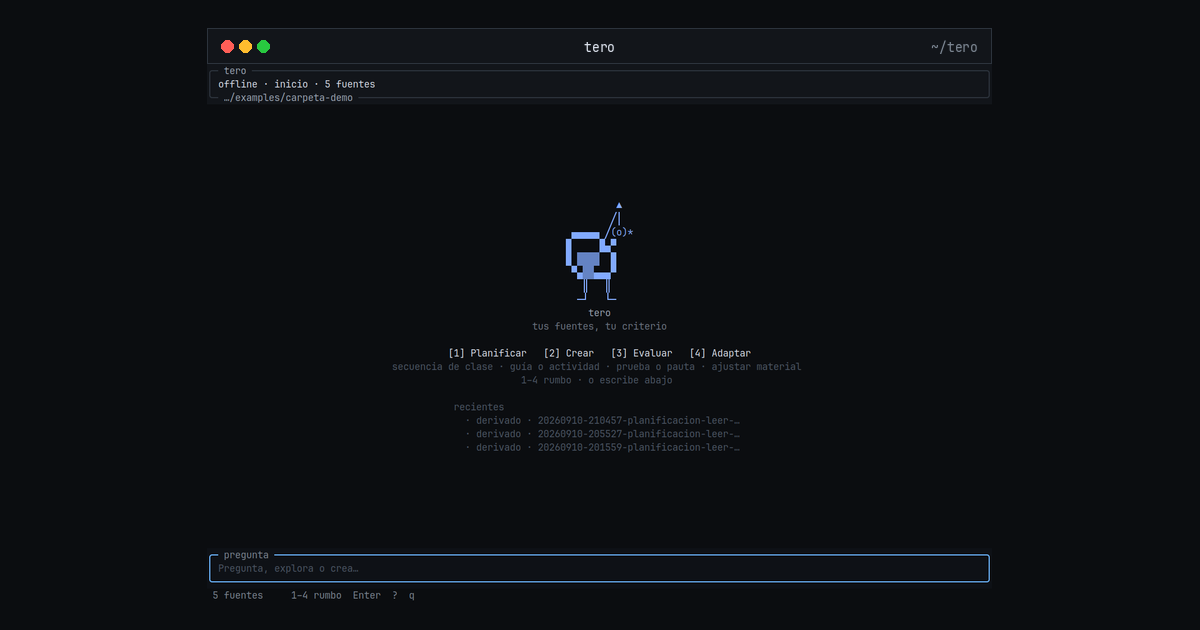
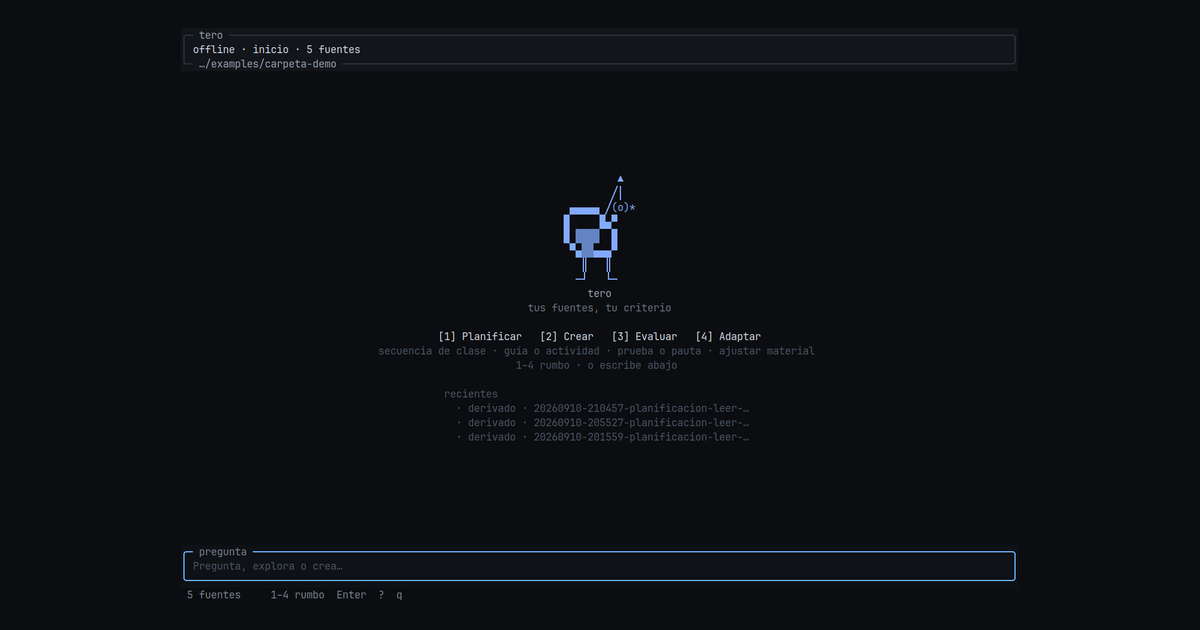
fix(site): show the OpenTUI shot as the landing window
The captured 140×40 shell already has ╭─ tero ─╮. Hide the extra
traffic titlebar on the ficha so the web view is the TUI, not a
second OS chrome around it.

Changed region(s): [[0.3083, 0.3016, 0.6783, 0.7238], [0.1542, 0.8746, 0.8325, 0.9651], [0.1542, 0.0302, 0.8325, 0.181]]

diff --git a/site/index.html b/site/index.html
@@ -26,7 +26,7 @@
       href="https://fonts.googleapis.com/css2?family=JetBrains+Mono:ital,wght@0,400;0,500;0,600;1,400&display=swap"
       rel="stylesheet"
     />
-    <link rel="stylesheet" href="./styles.css?v=vte-nord" />
+    <link rel="stylesheet" href="./styles.css?v=vte-tui" />
   </head>
   <body
     data-warnings-block-s="false"
@@ -36,8 +36,7 @@
     <a class="skip" href="#prompt">Saltar al prompt</a>
 
     <div class="window" id="app">
-      <header class="window-chrome">
-        <span class="traffic" aria-hidden="true"><i></i><i></i><i></i></span>
+      <header class="window-chrome sr-only">
         <span class="window-title">tero</span>
         <span class="window-path" id="window-path">~/tero</span>
       </header>

diff --git a/site/styles.css b/site/styles.css
@@ -111,7 +111,7 @@ body {
   max-width: calc(100vw - 2.2rem);
   margin: 0;
   background: var(--tui-bg);
-  border: 1px solid var(--border);
+  border: 0;
   border-radius: 0;
   overflow: hidden;
   min-height: 0;

diff --git a/tui/scripts/compose-og.py b/tui/scripts/compose-og.py
@@ -1,63 +1,35 @@
 #!/usr/bin/env python3
 """Compose site/assets/tero-og.png from the captured OpenTUI home.
 
-The OG card is the landing window (traffic + tero + ~/tero) hugging the
-live 140×40 JetBrains shot — not the old splash wave.
+The card is the live 140×40 JetBrains shot on Nord — not a splash wave
+and not a second macOS titlebar around the TUI.
 """
 
 from __future__ import annotations
 
 from pathlib import Path
 
-from PIL import Image, ImageDraw, ImageFont
+from PIL import Image
 
 ROOT = Path(__file__).resolve().parents[1].parent
 HOME = ROOT / "site" / "assets" / "tui" / "frames" / "home.png"
 OUT = ROOT / "site" / "assets" / "tero-og.png"
-FONT = Path("/usr/share/fonts/truetype/jetbrains-mono/JetBrainsMono-Medium.ttf")
 
 OG_W, OG_H = 1200, 630
 BG = (11, 13, 16)
-PANEL = (18, 21, 26)
-BORDER = (44, 51, 60)
-TEXT = (216, 222, 233)
-MUTED = (122, 132, 144)
-TRAFFIC = ((255, 95, 87), (254, 188, 46), (40, 200, 64))
-CHROME_H = 36
 PAD = 28
 
 
 def main() -> None:
     shot = Image.open(HOME).convert("RGB")
     max_w = OG_W - PAD * 2
-    max_h = OG_H - PAD * 2 - CHROME_H
+    max_h = OG_H - PAD * 2
     scale = min(max_w / shot.width, max_h / shot.height, 1)
     inner_w = max(1, round(shot.width * scale))
     inner_h = max(1, round(shot.height * scale))
     inner = shot.resize((inner_w, inner_h), Image.Resampling.LANCZOS)
-
-    win_w = inner_w
-    win_h = CHROME_H + inner_h
-    window = Image.new("RGB", (win_w, win_h), (11, 13, 16))
-    draw = ImageDraw.Draw(window)
-    draw.rectangle((0, 0, win_w, CHROME_H), fill=PANEL)
-    draw.line((0, CHROME_H - 1, win_w, CHROME_H - 1), fill=BORDER)
-    draw.rectangle((0, 0, win_w - 1, win_h - 1), outline=BORDER)
-    x = 14
-    for color in TRAFFIC:
-        draw.ellipse((x, 12, x + 12, 24), fill=color)
-        x += 18
-    font = ImageFont.truetype(str(FONT), 13) if FONT.is_file() else ImageFont.load_default()
-    title = "tero"
-    tw = draw.textlength(title, font=font)
-    draw.text(((win_w - tw) / 2, 10), title, fill=TEXT, font=font)
-    path = "~/tero"
-    pw = draw.textlength(path, font=font)
-    draw.text((win_w - pw - 14, 10), path, fill=MUTED, font=font)
-    window.paste(inner, (0, CHROME_H))
-
     canvas = Image.new("RGB", (OG_W, OG_H), BG)
-    canvas.paste(window, ((OG_W - win_w) // 2, (OG_H - win_h) // 2))
+    canvas.paste(inner, ((OG_W - inner_w) // 2, (OG_H - inner_h) // 2))
     canvas.save(OUT, optimize=True)
     print(f"wrote {OUT} {canvas.size} from {HOME.name} @{scale:.3f}")
 

diff --git a/tests/test_site_ficha.py b/tests/test_site_ficha.py
@@ -48,6 +48,7 @@ def test_ficha_landing_is_the_github_page():
     assert 'id="tui-grid"' in html
     assert 'id="app"' in html
     assert "window-chrome" in html
+    assert "window-chrome sr-only" in html
     assert "term-chrome" not in html
     assert 'id="splash"' not in html
     assert 'id="wave"' not in html
@@ -90,7 +91,7 @@ def test_ficha_landing_is_the_github_page():
     assert "enterSession" not in js
     assert 'id="session"' not in html
     assert "tui-grid.js" in html
-    assert "styles.css?v=vte-nord" in html
+    assert "styles.css?v=vte-tui" in html
     assert "tui-grid.js?v=vte-hotkeys" in html
     assert "ficha.js?v=vte-hotkeys" in html
     assert "min-height: calc(100vh" not in css

diff --git a/docs/SITIO.md b/docs/SITIO.md
@@ -1,19 +1,17 @@
 # Sitio — la TUI real, en una ventana
 
-El chrome de [`site/`](../site/) es **la OpenTUI de tero**, virtualizada
-en el navegador. Una sola ventana (`traffic` + título `tero`) envuelve
-el mismo layout que `tui/src/shell.ts`: header `╭─ tero ─╮`, home con
-queltehue y rumbos, workspace `sesión` / `propuesta` / `evidencia`,
-puerta `s` / `n` / `b` / `c`, prompt y footer. Los colores salen de
-`tui/src/theme.ts` (`#0b0d10`, accent `#82aaff`).
+El chrome de [`site/`](../site/) **es la OpenTUI de tero**: el PNG
+capturado de `xfce4-terminal` 140×40 (JetBrains Mono 13). No hay un
+segundo titlebar alrededor. El header `╭─ tero ─╮` del shell es la
+ventana, igual en home, rumbo y puerta. Colores de `tui/src/theme.ts`
+(`#0b0d10`, accent `#82aaff`).
 
 La primera vista **es** el home de la TUI. Un rumbo no cambia de ventana:
-solo pinta el cuerpo. Capturas auténticas (test renderer de OpenTUI) viven
-en [`site/assets/tui/frames/`](../site/assets/tui/frames/). Se regeneran
+solo pinta el frame. Capturas auténticas viven en
+[`site/assets/tui/frames/`](../site/assets/tui/frames/). Se regeneran
 con `cd tui && bun run capture` (JSON + PNG raster) y, con display,
 `bun run capture:live` (captura xfce4-terminal 140×40, JetBrains Mono 13).
-El landing blitea esos PNG a 1× dentro de **una** ventana
-(`traffic` + `tero` + `~/tero`).
+El landing blitea esos PNG a 1×.
 
 El papel hiperrealista —grano de tóner, ficha fotocopiada— queda
 **solo** en las páginas que tero crea (`#archivo` / `.hoja-frame`),
